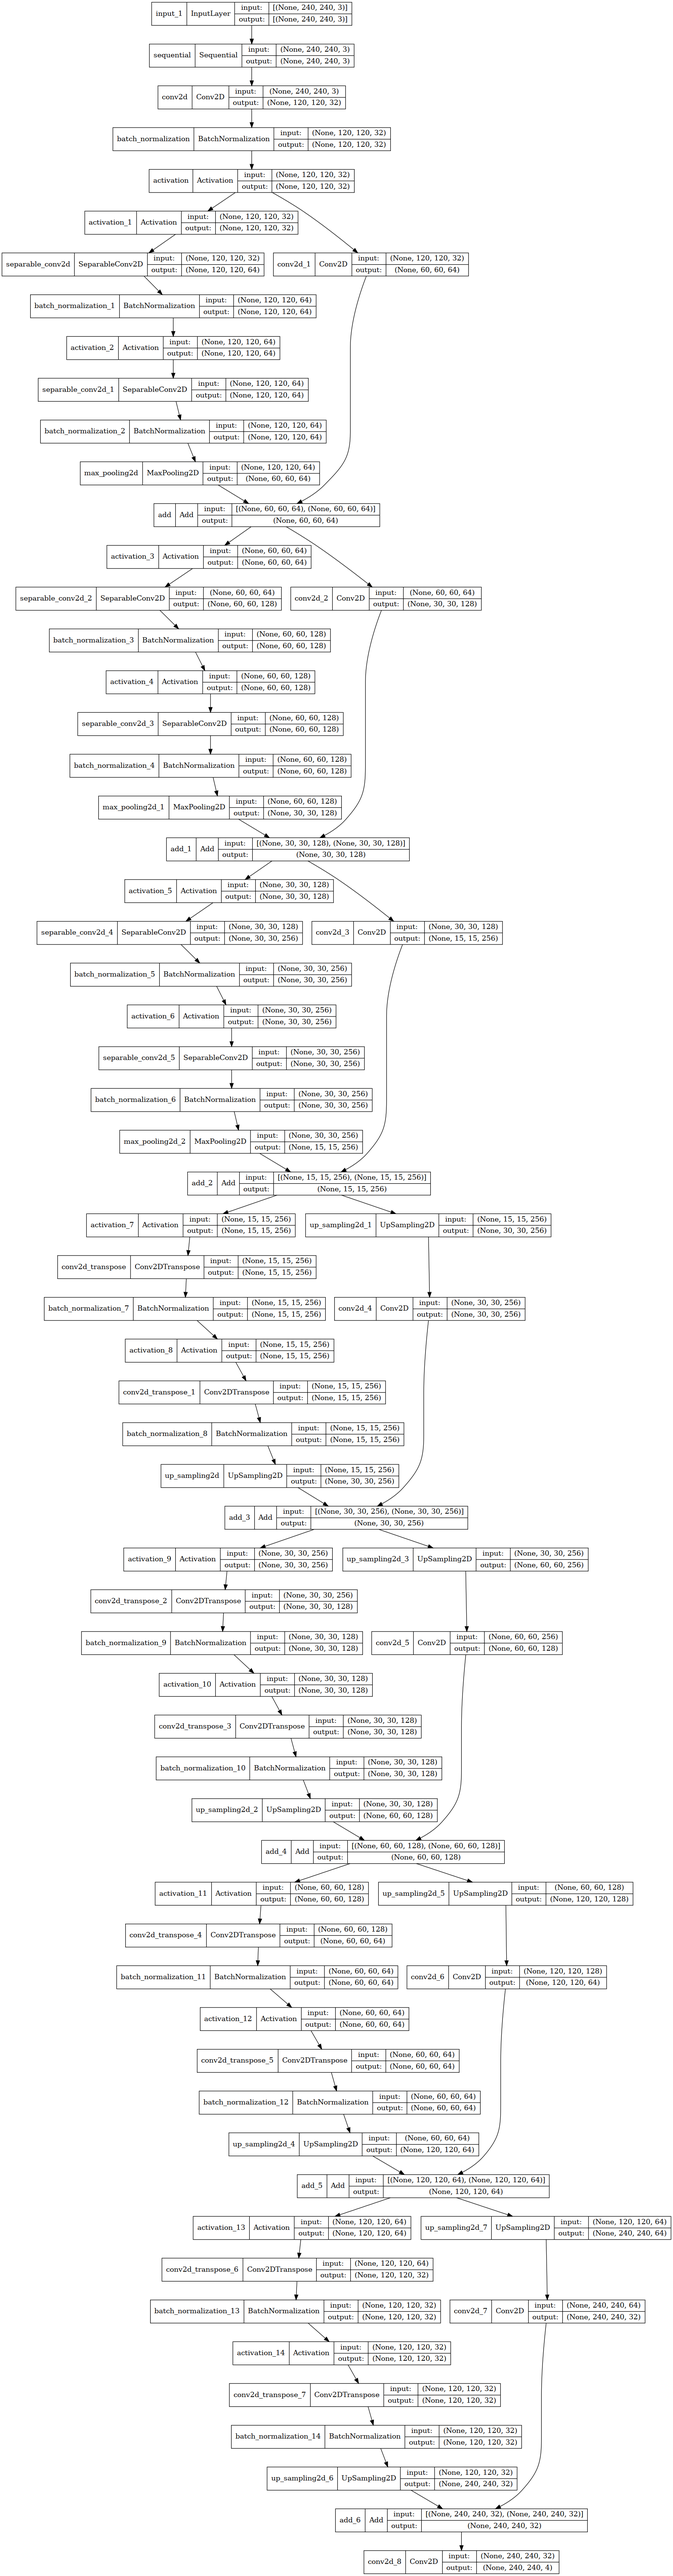
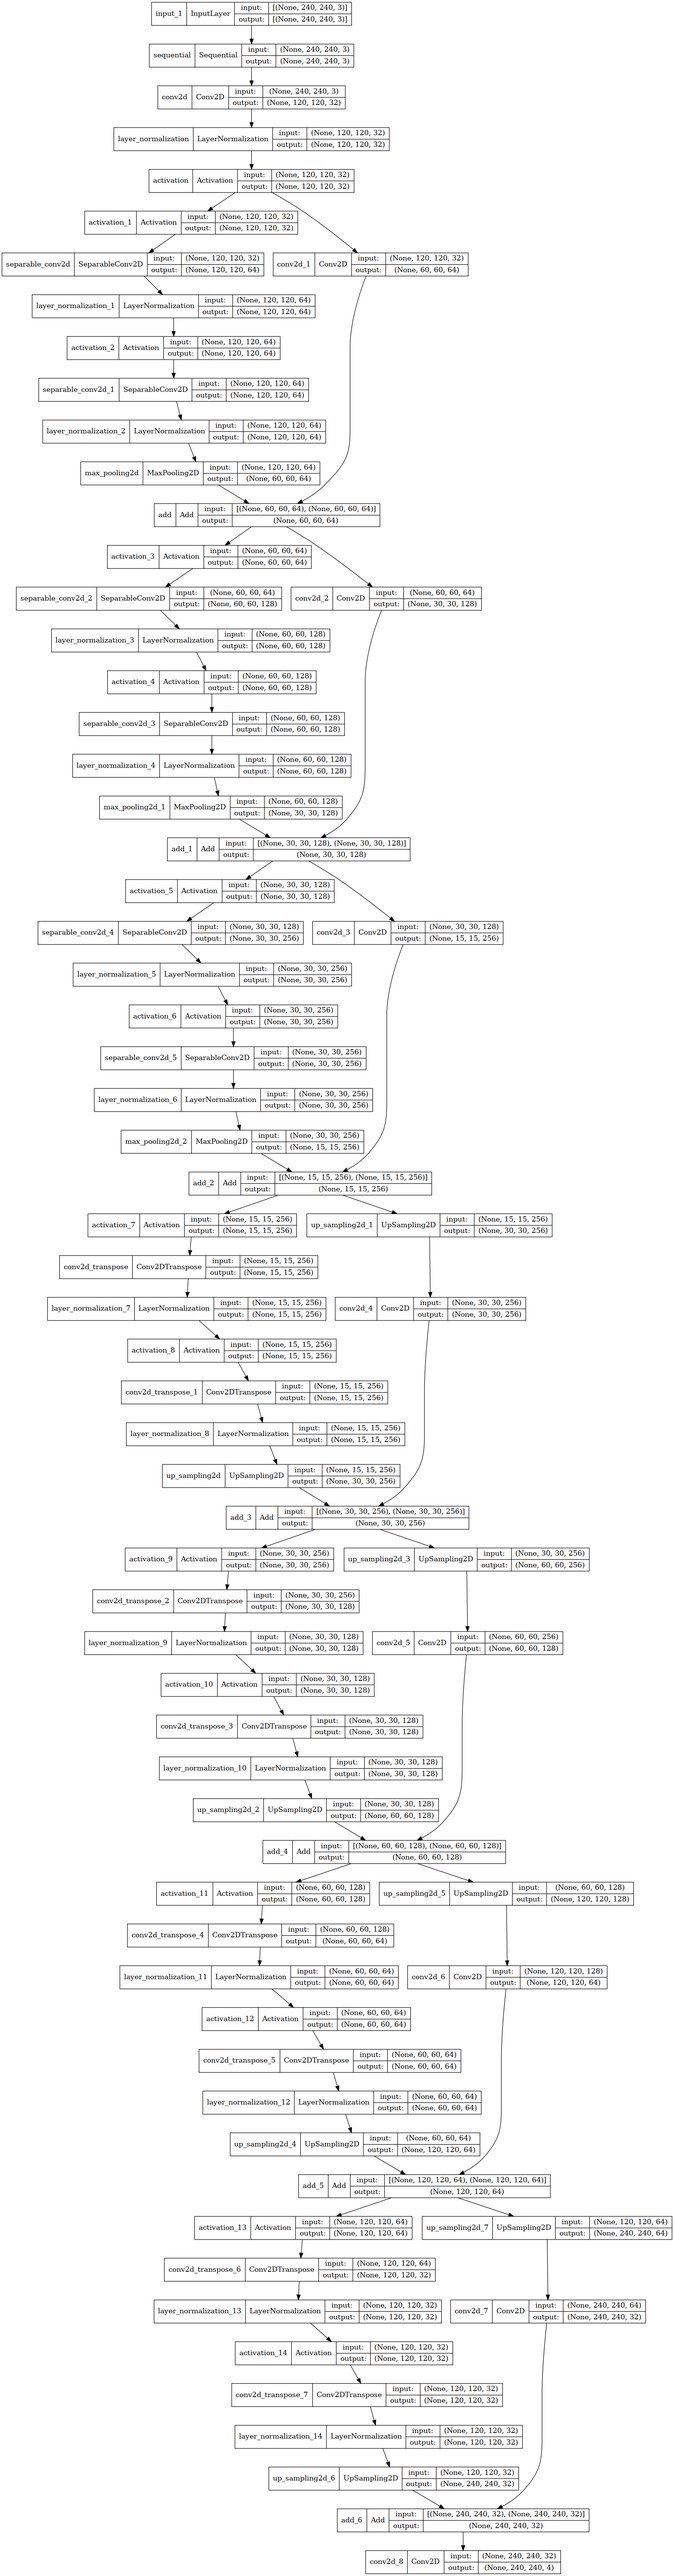
arch

diff --git a/model_architecture/model_utilities.py b/model_architecture/model_utilities.py
@@ -28,6 +28,8 @@ class model_utilities(object):
         self.diag_attn_mask = tf.cast([(1-tf.eye(self.num_patches))], dtype=tf.int8)
         self.random_noise_count = 1
 
+        self.layer_dim = 16
+
 
 class Patches(layers.Layer, model_utilities):
     def __init__(self, **kwargs):
@@ -166,13 +168,15 @@ class ShiftedPatchTokenization(layers.Layer, model_utilities):
         return (tokens, patches)
 
 
-
 class RandomPatchNoise(ShiftedPatchTokenization, layers.Layer, model_utilities):
     def __init__(self, **kwargs):
         super().__init__(**kwargs)
         model_utilities.__init__(self)
 
         self.half_patch = self.patch_size // 2
+        self.flatten_patches = layers.Reshape((self.num_patches, -1))
+        self.projection = layers.Dense(units=self.layer_dim)
+        self.layer_norm = layers.LayerNormalization(epsilon=self.epsilon)
     
     def adding_random_noise(self, images, noise_type):
      
@@ -258,8 +262,8 @@ class ShiftedTokenization(layers.Layer, model_utilities):
         
         self.half_patch = self.patch_size // 2
         self.flatten_patches = layers.Reshape((self.num_patches, -1))
-        self.projection = layers.Dense(units=self.projection_dim)
-        self.layer_norm = layers.LayerNormalization(epsilon=self.epsilon)
+        self.projection = layers.Dense(units=self.layer_dim)
+        self.layer_norm = layers.BatchNormalization()
 
     def crop_shift_pad(self, images, shift):
         # Build the diagonally shifted images
@@ -305,7 +309,7 @@ class ShiftedTokenization(layers.Layer, model_utilities):
             target_width=self.image_size,
         )
 
-        # shift_pad = tf.expand_dims(shift_pad, 0)
+        shift_pad = tf.expand_dims(shift_pad, 0)
         return shift_pad
 
     def call(self, images):
@@ -336,6 +340,9 @@ class RandomNoise(ShiftedPatchTokenization, layers.Layer, model_utilities):
         model_utilities.__init__(self)
 
         self.half_patch = self.patch_size // 2
+        self.flatten_patches = layers.Reshape((self.num_patches, -1))
+        self.projection = layers.Dense(units=self.layer_dim)
+        self.layer_norm = layers.BatchNormalization()
     
     def adding_random_noise(self, images, noise_type):
      
@@ -381,7 +388,7 @@ class RandomNoise(ShiftedPatchTokenization, layers.Layer, model_utilities):
                 images = images + uniform_noise
 
 
-        # random_img = tf.expand_dims(images, 0)
+        random_img = tf.expand_dims(images, 0)
         return random_img
 
     def call(self, images):

diff --git a/computer_vision_system/computer_vision_model_building.py b/computer_vision_system/computer_vision_model_building.py
@@ -30,7 +30,7 @@ class model_building(models, computer_vision_utilities, model_utilities):
         elif self.model_type == "personal_model":
             self.model = self.personal_model()
 
-        # self.save_model_summary()
+        self.save_model_summary()
         self.display_model_archetecture()
 
 
